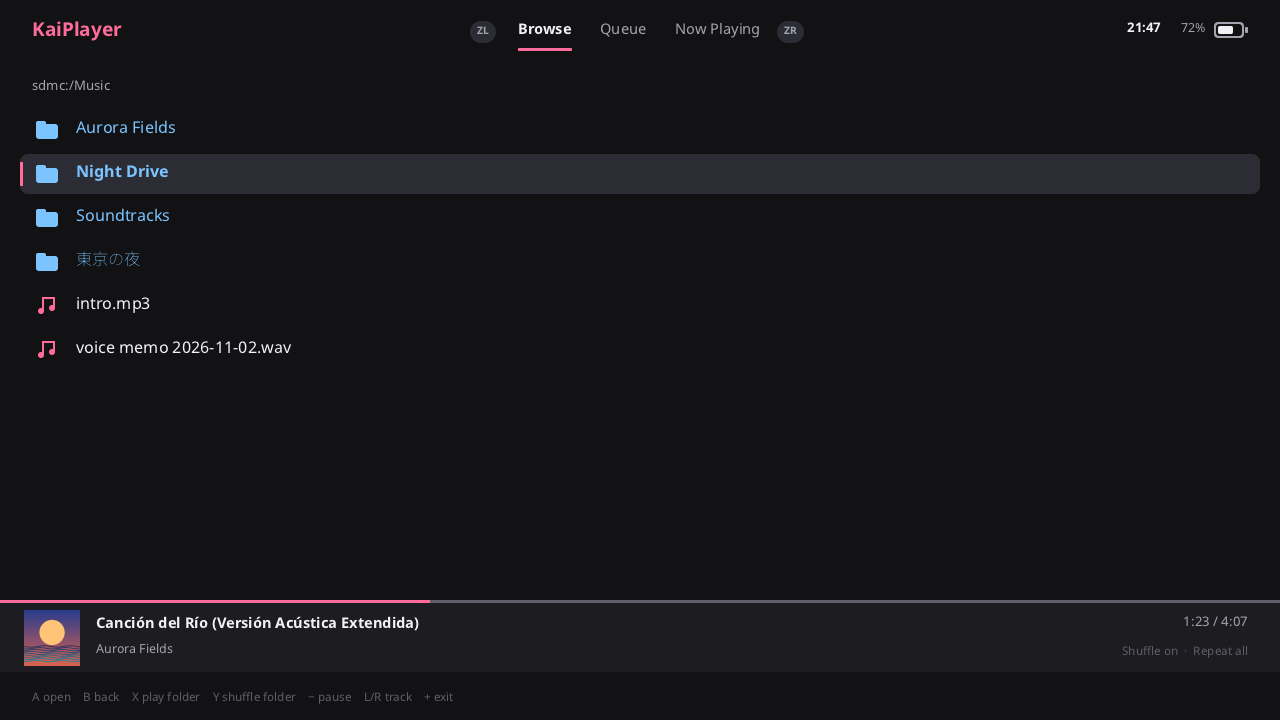
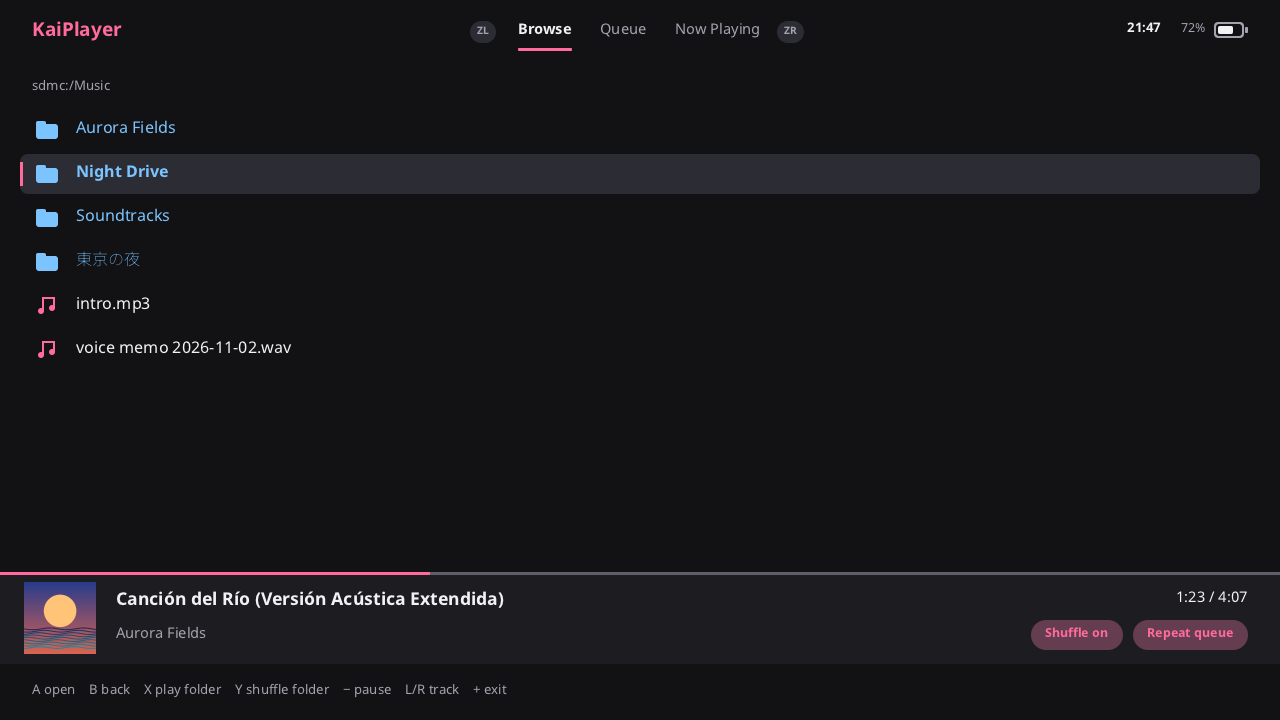
fix: show the shuffled play order in Queue, clearer repeat, bigger text
Feedback from testing on the console:
- With shuffle on, Queue listed the folder order, so shuffle looked
  broken with few songs. Queue now lists the play order; the player
  exposes playerQueueTrack and the current queue position.
- Repeat modes are named "Repeat queue" and "Repeat song".
- The mini player is taller, with a 72 px cover, larger title, artist and
  time, and shuffle/repeat shown as pills lit when on.
- The help line, "Track n of n" and the L/A/R hints are larger.

Changed region(s): [[0.0, 0.7944, 1.0, 0.9778]]

diff --git a/source/ui.c b/source/ui.c
@@ -8,8 +8,8 @@
 #define SUBTITLE_Y 76
 #define LIST_Y 108
 #define ROW_H 44
-#define MINI_Y 600
-#define MINI_H 72
+#define MINI_Y 572
+#define MINI_H 92
 #define THUMB_SIZE ARTWORK_SMALL_SIZE
 #define TEXT_ROW 22
 #define TEXT_SMALL 18
@@ -87,16 +87,18 @@ static void drawBrowser(const App *app)
     drawScrollbar(first, b->count);
 }
 
-static void drawQueueRow(size_t i, int y, bool selected, bool current)
+// One row of the queue: pos is a position in the play order.
+static void drawQueueRow(size_t pos, int y, bool selected, bool current)
 {
     char path[UTIL_PATH_MAX], title[UTIL_PATH_MAX], folder[UTIL_PATH_MAX], number[24];
-    if (!playerTrackPath(i, path, sizeof(path)))
+    size_t track;
+    if (!playerQueueTrack(pos, &track) || !playerTrackPath(track, path, sizeof(path)))
         return;
     uiSplitTrackPath(path, title, folder);
     if (selected)
         drawSelection(y);
 
-    snprintf(number, sizeof(number), "%zu", i + 1);
+    snprintf(number, sizeof(number), "%zu", pos + 1);
     int number_w = fontTextWidth(FONT_REGULAR, TEXT_SMALL, number);
     if (current)
         gfxFillTriangleRight(MARGIN + 34, y + 14, 12, 16, COLOR_ACCENT);
@@ -120,14 +122,16 @@ static void drawQueue(const App *app, const PlayerStatus *status)
                  "Pick a folder in Browse and press X to play it.", COLOR_DIM);
         return;
     }
-    char line[64];
-    snprintf(line, sizeof(line), "%zu tracks", status->track_count);
+    // The rows follow the play order, so a shuffled queue shows its real order.
+    char line[96];
+    snprintf(line, sizeof(line), "%zu tracks  ·  %s", status->track_count,
+             status->shuffle ? "shuffled play order" : "in folder order");
     fontDraw(FONT_REGULAR, TEXT_SMALL, MARGIN, SUBTITLE_Y, line, COLOR_DIM);
 
     size_t cursor = app->queue_cursor < status->track_count ? app->queue_cursor : 0;
     size_t first = firstVisible(cursor, status->track_count);
     for (size_t i = first; i < status->track_count && i < first + UI_LIST_ROWS; i++) {
-        bool current = i == status->track && status->state != PLAYER_STOPPED;
+        bool current = i == status->queue_pos && status->state != PLAYER_STOPPED;
         drawQueueRow(i, LIST_Y + (int)(i - first) * ROW_H, i == cursor, current);
     }
     drawScrollbar(first, status->track_count);
@@ -210,26 +214,30 @@ static void drawMiniPlayer(const App *app, const PlayerStatus *status, const UiT
     }
 
     uiDrawCover(MARGIN - 8, MINI_Y + 10, THUMB_SIZE, track->thumb);
-    int text_x = MARGIN + THUMB_SIZE + 8;
-    int text_w = GFX_WIDTH - text_x - 300;
-    fontDrawClipped(FONT_BOLD, 20, text_x, MINI_Y + 12, text_w, track->title,
+    int text_x = MARGIN + THUMB_SIZE + 12;
+    int text_w = GFX_WIDTH - text_x - 380;
+    fontDrawClipped(FONT_BOLD, 24, text_x, MINI_Y + 14, text_w, track->title,
                     track->has_track ? COLOR_TEXT : COLOR_DIM);
 
     bool toast = app->toast[0] && now_ns < app->toast_until_ns;
     const char *second = toast ? app->toast : track->artist[0] ? track->artist : track->folder;
-    fontDrawClipped(FONT_REGULAR, 17, text_x, MINI_Y + 40, text_w, second, toast ? COLOR_ERROR : COLOR_DIM);
+    fontDrawClipped(FONT_REGULAR, 20, text_x, MINI_Y + 50, text_w, second, toast ? COLOR_ERROR : COLOR_DIM);
 
     char elapsed[16], total[16], line[96];
     utilFormatTime(elapsed, sizeof(elapsed), status->position);
     utilFormatTime(total, sizeof(total), status->duration);
-    snprintf(line, sizeof(line), "%s %s / %s", status->state == PLAYER_PAUSED ? "Paused" : "",
+    snprintf(line, sizeof(line), "%s%s / %s", status->state == PLAYER_PAUSED ? "Paused  " : "",
              elapsed, status->duration > 0 ? total : "--:--");
-    fontDraw(FONT_REGULAR, 18, GFX_WIDTH - MARGIN - fontTextWidth(FONT_REGULAR, 18, line),
-             MINI_Y + 12, line, COLOR_DIM);
-    snprintf(line, sizeof(line), "%s  ·  %s", status->shuffle ? "Shuffle on" : "Shuffle off",
-             uiRepeatLabel(status->repeat));
-    fontDraw(FONT_REGULAR, 16, GFX_WIDTH - MARGIN - fontTextWidth(FONT_REGULAR, 16, line),
-             MINI_Y + 42, line, COLOR_FAINT);
+    fontDraw(FONT_REGULAR, 20, GFX_WIDTH - MARGIN - fontTextWidth(FONT_REGULAR, 20, line),
+             MINI_Y + 14, line, COLOR_TEXT);
+
+    // Shuffle and repeat as pills, lit in the accent color when on.
+    const char *shuffle = status->shuffle ? "Shuffle on" : "Shuffle off";
+    const char *repeat = uiRepeatLabel(status->repeat);
+    int x = GFX_WIDTH - MARGIN - uiPillWidth(repeat);
+    uiDrawPill(x, MINI_Y + 48, repeat, status->repeat != REPEAT_OFF);
+    x -= uiPillWidth(shuffle) + 10;
+    uiDrawPill(x, MINI_Y + 48, shuffle, status->shuffle);
 }
 
 static void drawFooter(const App *app)
@@ -239,7 +247,7 @@ static void drawFooter(const App *app)
         "A play    B browse    X shuffle    Y repeat    − pause    L/R track    + exit",
         "A pause    Left/Right seek    X shuffle    Y repeat    L/R track    + exit",
     };
-    fontDrawClipped(FONT_REGULAR, 16, MARGIN, FOOTER_Y + 16, GFX_WIDTH - 2 * MARGIN, HELP[app->view], COLOR_FAINT);
+    fontDrawClipped(FONT_REGULAR, 18, MARGIN, FOOTER_Y + 16, GFX_WIDTH - 2 * MARGIN, HELP[app->view], COLOR_DIM);
 }
 
 void uiDraw(const App *app, const PlayerStatus *status, uint64_t now_ns)

diff --git a/source/ui_now.c b/source/ui_now.c
@@ -35,8 +35,9 @@ static void drawInfo(const PlayerStatus *status, const UiTrack *track)
 
     if (status->track_count > 0) {
         char line[UTIL_PATH_MAX + 48];
-        snprintf(line, sizeof(line), "Track %zu of %zu  ·  %s", status->track + 1, status->track_count, track->folder);
-        fontDrawClipped(FONT_REGULAR, 16, INFO_X, 312, INFO_W, line, COLOR_FAINT);
+        snprintf(line, sizeof(line), "Track %zu of %zu  ·  %s", status->queue_pos + 1, status->track_count,
+                 track->folder);
+        fontDrawClipped(FONT_REGULAR, 20, INFO_X, 314, INFO_W, line, COLOR_DIM);
     }
 }
 
@@ -74,7 +75,7 @@ static void drawSkipIcon(int cx, int cy, bool next, Color color)
 
 static void drawHint(int cx, int y, const char *label)
 {
-    fontDraw(FONT_BOLD, 14, cx - fontTextWidth(FONT_BOLD, 14, label) / 2, y, label, COLOR_FAINT);
+    fontDraw(FONT_BOLD, 17, cx - fontTextWidth(FONT_BOLD, 17, label) / 2, y, label, COLOR_DIM);
 }
 
 static void drawTransport(const PlayerStatus *status)
@@ -94,21 +95,15 @@ static void drawTransport(const PlayerStatus *status)
     drawHint(cx + 120, cy + 26, "R");
 }
 
-static int drawPill(int x, int y, const char *label, bool on)
-{
-    int w = fontTextWidth(FONT_BOLD, 16, label) + 28;
-    gfxFillRoundRect(x, y, w, 34, 17, on ? gfxMix(COLOR_SURFACE_HI, COLOR_ACCENT, 70) : COLOR_SURFACE_HI);
-    fontDraw(FONT_BOLD, 16, x + 14, y + 7, label, on ? COLOR_ACCENT : COLOR_DIM);
-    return w;
-}
-
 static void drawToggles(const PlayerStatus *status)
 {
     int x = INFO_X;
-    x += drawPill(x, TOGGLES_Y, status->shuffle ? "X  Shuffle on" : "X  Shuffle off", status->shuffle) + 12;
+    const char *shuffle = status->shuffle ? "X  Shuffle on" : "X  Shuffle off";
+    uiDrawPill(x, TOGGLES_Y, shuffle, status->shuffle);
+    x += uiPillWidth(shuffle) + 12;
     char repeat[32];
     snprintf(repeat, sizeof(repeat), "Y  %s", uiRepeatLabel(status->repeat));
-    drawPill(x, TOGGLES_Y, repeat, status->repeat != REPEAT_OFF);
+    uiDrawPill(x, TOGGLES_Y, repeat, status->repeat != REPEAT_OFF);
 }
 
 void uiDrawNowPlaying(const App *app, const PlayerStatus *status, const UiTrack *track, uint64_t now_ns)

diff --git a/tests/preview/preview.c b/tests/preview/preview.c
@@ -37,6 +37,17 @@ bool playerTrackPath(size_t track, char *out, size_t size)
     return true;
 }
 
+// A shuffled play order, so the Queue preview shows one.
+static const size_t ORDER[] = {2, 5, 0, 7, 3, 8, 1, 6, 4};
+
+bool playerQueueTrack(size_t pos, size_t *track)
+{
+    if (pos >= TRACK_COUNT)
+        return false;
+    *track = ORDER[pos];
+    return true;
+}
+
 const Artwork *artworkLock(void)
 {
     return g_has_art ? &g_art : NULL;
@@ -109,7 +120,7 @@ int main(int argc, char **argv)
     app.browser.cursor = 1;
 
     PlayerStatus status = {
-        .state = PLAYER_PLAYING, .track = 2, .track_count = TRACK_COUNT,
+        .state = PLAYER_PLAYING, .track = 2, .queue_pos = 0, .track_count = TRACK_COUNT,
         .position = 83.0, .duration = 247.0, .shuffle = true, .repeat = REPEAT_ALL,
     };
     loadArtwork(argc > 2 ? argv[2] : NULL);
@@ -117,7 +128,7 @@ int main(int argc, char **argv)
     app.view = VIEW_BROWSER;
     render(argv[1], "browse", &app, &status);
     app.view = VIEW_QUEUE;
-    app.queue_cursor = 4;
+    app.queue_cursor = 3;
     render(argv[1], "queue", &app, &status);
     app.view = VIEW_NOW_PLAYING;
     render(argv[1], "now_playing", &app, &status);
@@ -126,6 +137,7 @@ int main(int argc, char **argv)
     status.state = PLAYER_PAUSED;
     status.shuffle = false;
     status.track = 7;
+    status.queue_pos = 3;
     app.sys.battery_percent = 12;
     render(argv[1], "now_playing_no_art", &app, &status);
 

diff --git a/source/main.c b/source/main.c
@@ -112,7 +112,9 @@ static void handleQueue(App *app, uint64_t pressed)
     if (pressed & BUTTONS_DOWN) moveQueueCursor(app, 1, status.track_count);
     if (pressed & BUTTONS_LEFT) moveQueueCursor(app, -PAGE_ROWS, status.track_count);
     if (pressed & BUTTONS_RIGHT) moveQueueCursor(app, PAGE_ROWS, status.track_count);
-    if (pressed & HidNpadButton_A) playerJumpTo(app->queue_cursor);
+    size_t track;
+    if ((pressed & HidNpadButton_A) && playerQueueTrack(app->queue_cursor, &track))
+        playerJumpTo(track);
     if (pressed & HidNpadButton_B) app->view = VIEW_BROWSER;
     if (pressed & HidNpadButton_X) playerToggleShuffle();
     if (pressed & HidNpadButton_Y) playerCycleRepeat();
@@ -135,7 +137,7 @@ static void switchView(App *app, int delta)
     if (app->view == VIEW_QUEUE) {
         PlayerStatus status;
         playerGetStatus(&status);
-        app->queue_cursor = status.track;
+        app->queue_cursor = status.queue_pos;
     }
 }
 

diff --git a/source/ui_common.c b/source/ui_common.c
@@ -64,11 +64,26 @@ void uiDrawCover(int x, int y, int size, const CoverImage *cover)
     uiDrawNoteIcon(x + size / 4, y + size / 4, size / 2, COLOR_FAINT);
 }
 
+#define PILL_TEXT 17
+#define PILL_PAD 14
+
+int uiPillWidth(const char *label)
+{
+    return fontTextWidth(FONT_BOLD, PILL_TEXT, label) + 2 * PILL_PAD;
+}
+
+void uiDrawPill(int x, int y, const char *label, bool on)
+{
+    int w = uiPillWidth(label);
+    gfxFillRoundRect(x, y, w, 30, 15, on ? gfxMix(COLOR_SURFACE_HI, COLOR_ACCENT, 70) : COLOR_SURFACE_HI);
+    fontDraw(FONT_BOLD, PILL_TEXT, x + PILL_PAD, y + 4, label, on ? COLOR_ACCENT : COLOR_DIM);
+}
+
 const char *uiRepeatLabel(RepeatMode repeat)
 {
     switch (repeat) {
-    case REPEAT_ALL: return "Repeat all";
-    case REPEAT_ONE: return "Repeat one";
+    case REPEAT_ALL: return "Repeat queue";
+    case REPEAT_ONE: return "Repeat song";
     default: return "Repeat off";
     }
 }

diff --git a/source/ui_common.h b/source/ui_common.h
@@ -24,8 +24,8 @@
 
 #define MARGIN 32
 #define HEADER_H 64
-#define CONTENT_BOTTOM 672
-#define FOOTER_Y 672
+#define CONTENT_BOTTOM 664
+#define FOOTER_Y 664
 
 // What the UI shows about the current track: tags when the artwork loader
 // has them, otherwise names derived from the path.
@@ -51,6 +51,10 @@ void uiDrawCover(int x, int y, int size, const CoverImage *cover);
 void uiDrawNoteIcon(int x, int y, int size, Color color);
 
 const char *uiRepeatLabel(RepeatMode repeat);
+
+// A rounded label, lit in the accent color when on. 30 pixels high.
+int uiPillWidth(const char *label);
+void uiDrawPill(int x, int y, const char *label, bool on);
 
 // The Now Playing view (ui_now.c).
 void uiDrawNowPlaying(const App *app, const PlayerStatus *status, const UiTrack *track, uint64_t now_ns);

diff --git a/source/player.c b/source/player.c
@@ -440,6 +440,7 @@ void playerGetStatus(PlayerStatus *out)
     mutexLock(&g_lock);
     out->state = g_state;
     out->track = queueCurrent(&g_queue);
+    out->queue_pos = g_queue.pos;
     out->track_count = g_list.count;
     out->position = g_out_rate ? (double)g_played_frames / g_out_rate : 0.0;
     out->duration = g_duration;
@@ -447,6 +448,16 @@ void playerGetStatus(PlayerStatus *out)
     out->repeat = g_repeat;
     snprintf(out->error, sizeof(out->error), "%s", g_error);
     mutexUnlock(&g_lock);
+}
+
+bool playerQueueTrack(size_t pos, size_t *track)
+{
+    mutexLock(&g_lock);
+    bool ok = pos < g_queue.count;
+    if (ok)
+        *track = g_queue.order[pos];
+    mutexUnlock(&g_lock);
+    return ok;
 }
 
 bool playerTrackPath(size_t track, char *out, size_t size)

diff --git a/source/player.h b/source/player.h
@@ -18,6 +18,7 @@ typedef enum {
 typedef struct {
     PlayerState state;
     size_t track;         // Index in the track list.
+    size_t queue_pos;     // Position of that track in the play order.
     size_t track_count;
     double position;      // Seconds.
     double duration;      // Seconds, 0 if unknown.
@@ -43,5 +44,9 @@ void playerSetShuffle(bool shuffle);
 void playerCycleRepeat(void);
 
 void playerGetStatus(PlayerStatus *out);
+// The track at a position of the play order (shuffled or not).
+// False if out of range.
+bool playerQueueTrack(size_t pos, size_t *track);
+
 // Copies the full path of a track in the list. False if out of range.
 bool playerTrackPath(size_t track, char *out, size_t size);

diff --git a/source/artwork.h b/source/artwork.h
@@ -9,7 +9,7 @@
 #include "util.h"
 
 #define ARTWORK_LARGE_SIZE 400
-#define ARTWORK_SMALL_SIZE 56
+#define ARTWORK_SMALL_SIZE 72
 
 typedef struct {
     char path[UTIL_PATH_MAX];  // Track these belong to; empty if none.

diff --git a/source/ui.h b/source/ui.h
@@ -6,6 +6,6 @@
 #include "app.h"
 #include "player.h"
 
-#define UI_LIST_ROWS 11
+#define UI_LIST_ROWS 10
 
 void uiDraw(const App *app, const PlayerStatus *status, uint64_t now_ns);

diff --git a/README.md b/README.md
@@ -124,7 +124,7 @@ switches to Now Playing.
 | A         | Open folder / play from song    | Play this track         | Pause / resume             |
 | B         | Go up one folder                | Back to Browse          | Back to Browse             |
 | X         | Play the whole folder           | Shuffle on / off        | Shuffle on / off           |
-| Y         | Shuffle the whole folder        | Repeat: off / all / one | Repeat: off / all / one    |
+| Y         | Shuffle the whole folder        | Repeat: off / queue / song | Repeat: off / queue / song |
 
 In every tab:
 
@@ -145,6 +145,10 @@ the card, KaiPlayer skips the system and homebrew folders there (`switch`,
 `config`, `Nintendo`, `atmosphere`, kaiHEN's folders and so on), so their
 sound effects don't end up in the queue. The queue shows the folder each
 track comes from.
+
+**Repeat queue** plays the whole queue again after its last song. **Repeat
+song** plays the current song over and over. With **Shuffle on**, the Queue
+tab lists the songs in the shuffled order they will play in.
 
 If a song has played for more than 3 seconds, **L** restarts it. Otherwise
 **L** goes to the previous song.
